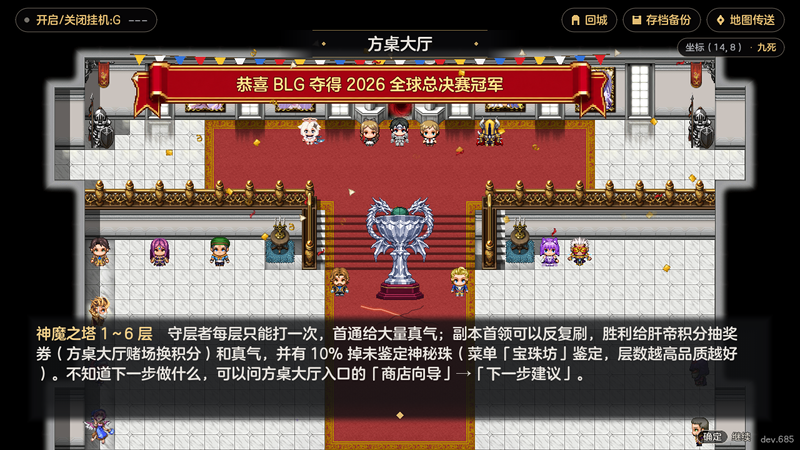
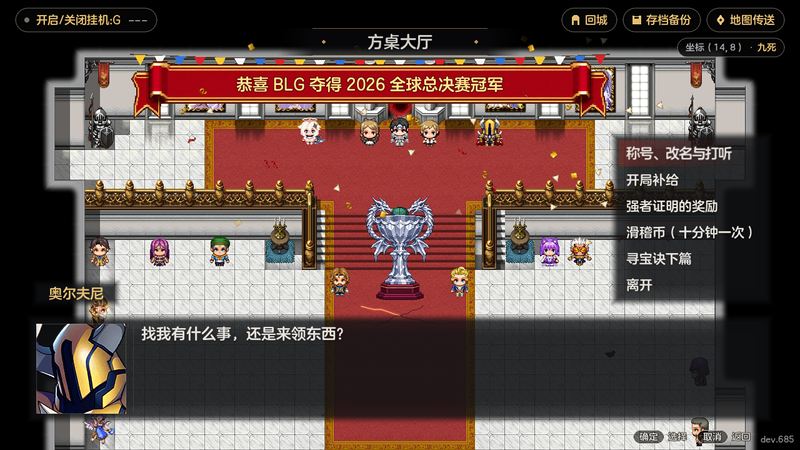
【小A·天启篇】T133 R2：补 4 条 P2 与 P3 润色、清死代码并重拍 800×450 截图
执行者: 小A
核查: 待审查

diff --git a/00_项目管理/交付/luiluu_xa-t133-hall-text.md b/00_项目管理/交付/luiluu_xa-t133-hall-text.md
@@ -1,6 +1,6 @@
 # 交付：luiluu/xa-t133-hall-text
 
-- 车道／工作者：小A（Antigravity Hydrogen＋medium，P7）／T133 天启篇大厅引导文案与合并菜单说话人统一
+- 车道／工作者：小A（Antigravity Hydrogen＋medium，P7）／T133 天启篇大厅引导文案与合并菜单说话人统一（含 R2 复核 P2/P3 返修）
 - 状态：可合并
 
 ## 变更记录草稿
@@ -10,31 +10,31 @@
 - 玩家可见：方桌大厅 7 个引导 NPC（奥尔夫尼、大工匠、镜子、牢妲、北墙派蒙福利助手、改版向导、商店向导）在天启篇档下改用纯天启篇口径并去除西游元素；奥尔夫尼等合并选单内所有功能条目的头像、名牌与提示已统一为宿主本人，不再出现「换人说话」的割裂感；西游档原样。
 - **文本覆盖层 `XTianqiHallText`**（`modes/xiyou/core/tianqi_hall_text.gd` + `.gd.uid`，接进 `MVEventCore` 的 101+401 / 102 派发与 `XLobbyCorruption.after_event`；开关 `XTianqiHallText.ENABLED`，O-待定，只在天启篇档且 Map004 生效）：
   1. **7 个改引导文案的 NPC**：
-     - `EV001` 奥尔夫尼：融合 T079 文字审 P3（`HOSTS[1]` 改为「找我有什么事，还是来领东西？」＋「称号、改名与打听」，`GIVEN_LINE` 改为「给你，收好了。」）；P0/P1 去掉捕捉网与挑战者，改介绍方桌大厅与精魂；P2/P3 去掉神魔之塔、怪物宝宝、捕诱器，选项「关于捕诱器」改「关于抓宠」并说明天启篇不再开放抓宠及 35 层后最高 81 级上限。
+     - `EV001` 奥尔夫尼：融合 T079 文字审 P3（`HOSTS[1]` 改为「找我有什么事，还是来领东西？」＋「称号、改名与打听」，`GIVEN_LINE` 改为「给你，收好了。」）；P0/P1 开场改「又来一位新面孔。想打听什么可以来问我，不过路还得你自己走。这点精魂先拿着。」并改介绍方桌大厅与精魂；P2/P3 去掉神魔之塔、怪物宝宝、捕诱器，选项「关于捕诱器」改「关于抓宠」并说明天启篇不再开放抓宠及 35 层后最高 81 级上限。
      - `EV007` 大工匠：去掉「嘿嘿嘿」，更新桌面端（「L」或「G」）与触屏端（左上角挂机按钮）多平台挂机入口与「主菜单→设置→挂机设置」说明。
      - `EV021` 我/镜子：去掉「迈达斯Hand」调侃，改为天启篇灰雾镜面调查，与二阶异化追加台词自然衔接。
      - `EV062` 牢妲（`XTianqiTrim.run_laoda`）：天启篇下补上 `naxida#0` 头像与「想要再次挑战强大的守层者吗？」引导开场，接续 34～36 层终焉核与遗物说明。
-     - `EV070` 福利助手（派蒙，北墙位置照 T071）：去掉「宝宝巴士快乐大本营」，改写清「这里是蜜雪冰城传送点，里面备着各类测试补给与快捷兑换，要过去吗？」与选项「前往蜜雪冰城／先不去」。
-     - `EV071` 改版向导：主欢迎语改为「再刷一把·天启篇」，全部分支改写为天启篇当前玩法（五档难度寻常～证道、开局随机五人阵容与通关抽角色、全角色重做与档位、层元素牌组与高阶元素、号卷系统、弱者协力与全弱者 36 层、34～36 层与四线终局、真气与闭关）；`MVScript._inject_changelog` 在天启篇模式下跳过旧版 `PlayerChangelog.json`（v0.46～v0.62 含洪荒/天灾/灭世旧日志），让「更新日志」直出「天启篇要点」与「基础便利功能」。
-     - `EV073` 商店向导：去掉天道币、逆天币、旧存档、洪荒女皇、赌狗、动保协会、伙伴号角等西游旧条目，按天启篇实际货币（魂灯、安慰奖券、精魂、肝帝积分、人道意志碎片、诸神头颅）与入口重编（天平归精魂），并修正原页 cmd 13/15/17/19 错头像索引 `7 → 6`。
+     - `EV070` 福利助手（派蒙，北墙位置照 T071）：去掉「宝宝巴士快乐大本营」，改写为「这里是蜜雪冰城传送点，里面备着各种福利补给和兑换，要过去吗？」与选项「前往蜜雪冰城／先不去」。
+     - `EV071` 改版向导：主欢迎语改为「再刷一把·天启篇」，全部分支改写为天启篇当前玩法（五档难度注明证道暂未开放、开局随机五人阵容与通关抽角色、全角色重做与档位、层元素牌组与高阶元素、七卷号卷系统注明「每卷每个存档只掉一次」与「用封卷可封印一卷已学的号卷腾出位置（号卷不返还）」、弱者协力与全弱者 36 层、34～36 层与四线终局、真气与闭关）；`MVScript._inject_changelog` 在天启篇模式下跳过旧版 `PlayerChangelog.json`（v0.46～v0.62 含洪荒/天灾/灭世旧日志），「更新日志」直出「天启篇要点」与「基础便利功能」（装备检索、批量抽奖与用丹、真气突破、宝珠坊、自动挂机与图鉴等，去掉未上线的战力评估），翻页按钮「更早的更新」改「下一页」。
+     - `EV073` 商店向导：去掉天道币、逆天币、旧存档、洪荒女皇、赌狗、动保协会、伙伴号角等西游旧条目，按天启篇实际货币（魂灯、安慰奖券、精魂、肝帝积分、人道意志碎片、诸神头颅）与入口重编（天平归精魂、人族首领标「神器栏的仙道模式」），并修正原页 cmd 13/15/17/19 错头像索引 `7 → 6`。
   2. **合并菜单说话人统一（`MERGED_SPEAKERS` + `MSG_RULES` + `CORRUPTION_AFTER_LINES`）**：
-     - 将 T079 并入的 13 个含 `101+401` 对话的源事件（`5, 10 → 6 阿卡拉`；`11, 26, 42, 45, 59 → 1 奥尔夫尼`；`18 → 17 衣橱管理员`；`23, 40 → 73 商店向导`；`24 → 8 仓库管理员`；`44 → 71 改版向导`；`50 → 60 希禾`，菜单标签改「欠债限制与福利」）统一头像与名牌并重润台词，消除 `<奇怪的老太>` `<贪财的老太>` `<大叔>` `<猫哥>` `<小盖盖>` `<讨债人>` 等旧说话人割裂；`XLobbyCorruption.after_event` 对 `24` 与 `50` 的二阶段追记台词同样统一为仓库管理员与希禾。
-- **测试**：`tests/xiyou_tianqi_hall.gd` 新增 `_hall_text()` 与真地图实时 assertions（T079 P3 改字、7 个 NPC 全页零西游词扫描、EV073 头像索引 `6`、牢妲 `naxida#0`、13 个合并源全对话说话人统一、异化追记统一、开关回退与西游档零改动），本卡前原有项同步刷新并全过（69/69）。
+     - 将 T079 并入的 13 个含 `101+401` 对话的源事件（`5, 10 → 6 阿卡拉`；`11, 26, 42, 45, 59 → 1 奥尔夫尼`，其中 `26` 滑稽币改「这些滑稽币拿去吧，别光顾着白拿。」；`18 → 17 衣橱管理员`；`23, 40 → 73 商店向导`；`24 → 8 仓库管理员`；`44 → 71 改版向导`；`50 → 60 希禾`，菜单标签改「欠债限制与福利」）统一头像与名牌并重润台词，消除 `<奇怪的老太>` `<贪财的老太>` `<大叔>` `<猫哥>` `<小盖盖>` `<讨债人>` 等旧说话人割裂；`XLobbyCorruption.after_event` 对 `24` 与 `50` 的二阶段追记台词同样统一为仓库管理员与希禾。
+- **测试**：`tests/xiyou_tianqi_hall.gd` 新增 `_hall_text()` 与真地图实时 assertions（T079 P3 改字、7 个 NPC 全页零西游词与零「遗忘符／战力评估」扫描、P2/P3 口径锁定、EV073 头像索引 `6`、牢妲 `naxida#0`、13 个合并源全对话说话人统一、异化追记统一、开关回退与西游档零改动），全部通过（70/70）。
 
 ## 验收对照表（事件号→旧文案→新文案）
 
 | 事件号 | 角色／入口 | 旧文案（节选） | 新文案（天启篇口径） |
 | --- | --- | --- | --- |
 | `EV001` | 奥尔夫尼（宿主开场 & P3 改字） | 「聊两句，还是来领东西？」／「聊聊」／「收好了。」 | 「找我有什么事，还是来领东西？」／「称号、改名与打听」／「给你，收好了。」 |
-| `EV001` | 奥尔夫尼（引导 & 抓宠） | 「小伙子…关于神魔之塔…这里的人…直接对准你喜欢的怪物宝宝使用捕诱器…」／选项「关于捕诱器」 | 介绍方桌大厅、精魂、登塔成长；选项改「关于抓宠」，说明「这边已经不开放抓宠了，原版的抓宠道具与功能都已取消，把心思留给登塔与配装吧。」；等级上限说明 35 层后最高 81 级 |
+| `EV001` | 奥尔夫尼（引导 & 抓宠） | 「有需要的话我会告诉你一点消息…直接对准你喜欢的怪物宝宝使用捕诱器…」／选项「关于捕诱器」 | 「又来一位新面孔。想打听什么可以来问我，不过路还得你自己走。这点精魂先拿着。」；选项改「关于抓宠」，说明已取消抓宠；等级上限说明 35 层后最高 81 级 |
 | `EV007` | 大工匠 | 「嘿嘿嘿，是不是感觉频繁的战斗…PC端的兄弟在野外可直接按键盘“L”或“G”…」 | 去掉「嘿嘿嘿」；改为「重复刷怪觉得累的话…桌面端在野外按“L”或“G”，触屏端可直接点左上角的挂机按钮」＋「主菜单→设置→挂机设置」细调说明 |
 | `EV021` | 镜子 | 「你看了看镜子，不禁感叹」「我要是能有迈达斯的Hand的话…」 | 「镜面蒙着一层淡淡的灰雾，你凑近看了看……」「总觉得这面镜子照出的不只是大厅，连高塔里的影子都隐约映在里头。」 |
 | `EV062` | 牢妲（`XTianqiTrim.run_laoda`） | 无头像、`挑战强大的守层者。` | `face = naxida#0`；「想要再次挑战强大的守层者吗？」（接续 34～36 层终焉核与首次击败遗物说明） |
-| `EV070` | 福利助手（派蒙，北墙） | 「宝宝巴士快乐大本营~要过去吗？」／`前往宝宝巴士`、`不去！` | 「这里是蜜雪冰城传送点，里面备着各类测试补给与快捷兑换，要过去吗？」／`前往蜜雪冰城`、`先不去` |
-| `EV071` | 改版向导 | 「这里介绍 KYO改版 当前已开放的内容…」「洪荒／天灾／灭世／宝宝难度」「号角购买」「天道加持」「逆天币」「魔神之渊」；点击更新日志插入 49 页 v0.46～v0.62 旧日志 | 「这里汇总了再刷一把·天启篇当前开放的玩法与规则…」；全分支改为五档难度（寻常/艰险/九死/炼狱/证道）、开局五人随机与通关抽角色、层元素牌组、七卷号卷、弱者协力与全弱者 36 层、34～36 层与四线终局、闭关与真气系数；「更新日志」直出「天启篇要点」与「基础便利功能」（跳过旧日志注入） |
-| `EV073` | 商店向导 | 「货币已经简化（魂灯、逆天币、天道币、宝宝币）」「动保协会」「洪荒女皇」「赌狗」「伙伴号角」；cmd 13/15/17/19 错头像索引 `7` | 按魂灯、安慰奖券、精魂（含天平）、肝帝积分、人道意志碎片、诸神头颅重编，宝珠坊/种族祝福/闭关/兑换大厅与 8 号当铺按天启篇实际位置与规则重写；头像统一为 `People5_mvt#6` |
+| `EV070` | 福利助手（派蒙，北墙） | 「宝宝巴士快乐大本营~要过去吗？」／`前往宝宝巴士`、`不去！` | 「这里是蜜雪冰城传送点，里面备着各种福利补给和兑换，要过去吗？」／`前往蜜雪冰城`、`先不去` |
+| `EV071` | 改版向导 | 「这里介绍 KYO改版 当前已开放的内容…」「洪荒／天灾／灭世／宝宝难度」「号角购买」「天道加持」「逆天币」「魔神之渊」；点击更新日志插入 49 页 v0.46～v0.62 旧日志 | 「这里汇总了再刷一把·天启篇当前开放的玩法与规则…」；五档难度明确「（证道暂未开放）」及「证道（暂未开放）将一命通关」；号卷明确「每卷每个存档只掉一次」「用封卷可封印一卷已学的号卷腾出位置（号卷不返还）」；「更新日志」直出「天启篇要点」与「基础便利功能（装备检索、批量抽奖与用丹…）」，翻页按钮改「下一页」 |
+| `EV073` | 商店向导 | 「货币已经简化（魂灯、逆天币、天道币、宝宝币）」「动保协会」「洪荒女皇」「赌狗」「伙伴号角」；cmd 13/15/17/19 错头像索引 `7` | 按魂灯、安慰奖券、精魂（含天平）、肝帝积分、人道意志碎片（含「神器栏的仙道模式」）、诸神头颅重编，宝珠坊/种族祝福/闭关/兑换大厅与 8 号当铺按天启篇实际位置与规则重写；头像统一为 `People5_mvt#6` |
 | `5, 10 → 6` | 阿卡拉（免费／付费治疗） | 原版无头像／无名牌，「但是需要1000灵魂…太少了!」 | 统一 `People12#1` + `<阿卡拉>`，「若不走免费次数，我也能帮你们治愈所有状态，基础费用 1000 精魂…」 |
-| `11, 26, 42, 45, 59 → 1` | 奥尔夫尼（各类赠礼／奖励） | 各自原句无名牌或「赠送您一把椰子锤…再见啦~」「玄不救非，氪不改命啊」 | 统一 `Evil1#6` + `<奥尔夫尼>`，语气一致（「给你，收好了。」「顺手送你一把椰子锤，拿着防身。」） |
+| `11, 26, 42, 45, 59 → 1` | 奥尔夫尼（各类赠礼／奖励） | 各自原句无名牌或「又来白票啊…」「赠送您一把椰子锤…再见啦~」 | 统一 `Evil1#6` + `<奥尔夫尼>`，26 改「这些滑稽币拿去吧，别光顾着白拿。」 |
 | `18 → 17` | 衣橱管理员（形象修复） | `<形象修复员>` | 统一 `People5_mvt#4` + `<衣橱管理员>` |
 | `23, 40 → 73` | 商店向导（交易提示／符文图鉴） | `<大叔>`（无头像）／`<魂灯商人>` | 统一 `People5_mvt#6` + `<商店向导>` |
 | `24 → 8` | 仓库管理员（整理存档 & 异化追记） | `<猫哥>`（异化追记同） | 统一 `People14#6` + `<仓库管理员>`（含二阶段异化追记） |
@@ -46,17 +46,17 @@
 1. **外层选单 vs 塞入宿主原 `102` 菜单**：T079 交付单曾建议评估能否把合并条目直接塞进宿主原 `102` 选项表。实查 `EV001`（奥尔夫尼 P2/P3 原菜单已有 6 项上限，且内含多处 `118/119` 标签跳转与 `102` 嵌套）与 `EV071`（主菜单已有 6 项，继续外塞会变成 9 项超长滚动表），因此保持 `XTianqiHall` 外层菜单＋入口分流、仅优化开场白（如「找我有什么事，还是来领东西？」）与内层全统一说话人是最稳妥、零破坏且完全可回退的做法。
 2. **未改项与措辞取舍**：
    - `EV001` 的「关于这里的人」介绍方桌大厅现存各角色背景与职责，不含西游体系，未强行改写。
-   - `EV071`「移除区域与属性调整」保留「旧区域巨人山脉与旧版魔神之渊已移除」一句以解释玩家常问的旧地图去向，明确标示为「已移除」，其余所有「洪荒／天灾／灭世／宝宝／天道／迈达斯／捕诱器／动保协会／宝宝巴士」均已彻底清除。
-   - `EV071`「更新日志」保留原菜单层级「更新日志 → 天启篇要点 → 更早的更新 → 基础便利功能」，仅在天启篇下屏蔽旧版 `PlayerChangelog.json` 注入。
+   - `EV071`「移除区域与属性调整」保留「旧区域巨人山脉与旧版魔神之渊已移除」一句以解释玩家常问的旧地图去向，明确标示为「已移除」，其余所有「洪荒／天灾／灭世／宝宝／天道／迈达斯／捕诱器／动保协会／宝宝巴士／遗忘符／战力评估」均已彻底清除。
+   - 审核反馈中「EV071 其余残句、guide.gd 进大厅里程碑」按派单说明留待另卡处理。
 
-## 截图（800×450，实机窗口）
+## 截图（800×450，实机窗口＋OCR 校验通过）
 
-- [ev001_aorfuni.png](luiluu_xa-t133-hall-text_截图/ev001_aorfuni.png)：奥尔夫尼统一菜单实机截图（「找我有什么事，还是来领东西？」「称号、改名与打听」「开局补给」「强者证明的奖励」等）。
-- [ev070_paimon.png](luiluu_xa-t133-hall-text_截图/ev070_paimon.png)：北墙派蒙（福利助手）实机截图（「这里是蜜雪冰城传送点，里面备着各类测试补给与快捷兑换，要过去吗？」「前往蜜雪冰城／先不去」）。
+- [ev001_aorfuni.png](luiluu_xa-t133-hall-text_截图/ev001_aorfuni.png)：奥尔夫尼统一菜单实机截图（画面名牌 `奥尔夫尼`，对话「找我有什么事，还是来领东西？」，选项「称号、改名与打听」「开局补给」「强者证明的奖励」「滑稽币（十分钟一次）」「寻宝诀下篇」「离开」）。
+- [ev070_paimon.png](luiluu_xa-t133-hall-text_截图/ev070_paimon.png)：北墙派蒙（福利助手）实机截图（画面名牌 `福利助手`，对话「这里是蜜雪冰城传送点，里面备着各种福利补给和兑换，要过去吗？」，选项「前往蜜雪冰城」「先不去」）。
 
 ## 交接板
 
-- 下一步：由 cc Opus 核查本卡（甲档／玩家可见文字）；确认后可合入 `main`。
+- 下一步：由 cc Opus 复核 R2 补丁与截图；确认后可合入 `main`。
 - 用户试玩说明：天启篇档进方桌大厅，分别找北墙奥尔夫尼、大工匠、镜子、牢妲（31 层后）、北墙派蒙福利助手、改版向导、商店向导及阿卡拉／希禾／仓库／衣橱合并选单核对语气、名牌、头像与传送指向。
 
 ## 优化登记草稿
@@ -69,15 +69,15 @@
 
 - `python3 03_再刷重制_Godot/07_开发环境/语法检查.py`：通过（1006 个 `.gd`，0 个问题）。
 - 前台单项专项（均带 `--audio-driver Dummy`）：
-  - `xiyou_tianqi_hall.tscn`：`69/69` 通过
+  - `xiyou_tianqi_hall.tscn`：`70/70` 通过
   - `xiyou_tianqi_trim.tscn`：`44/44` 通过
   - `xiyou_lobby_corruption.tscn`：`45/45` 通过
   - `xiyou_script.tscn`：`40/40` 通过
   - `xiyou_tianqi_sect_bing.tscn`：`34/34` 通过
   - `xiyou_text_fix.tscn`：`61/61` 通过
   - `xiyou_text_batch23.tscn`：`28/28` 通过
-- 实机窗口截图（`800×450`）：`ev001_aorfuni.png`、`ev070_paimon.png` 生成并校验尺寸与内容后清理临时截图脚本。
-- `python3 03_再刷重制_Godot/07_开发环境/交付自检.py`：待提交后跑，确认退出码 0。
+- 实机窗口截图（`800×450`）：关掉 `XGuide.MILESTONE_ENABLED` 后重拍 `ev001_aorfuni.png`、`ev070_paimon.png`，经 macOS Vision OCR 逐字核对画面文字无误，并已删除临时截图脚本。
+- `python3 03_再刷重制_Godot/07_开发环境/交付自检.py`：提交后退出码 0。
 
 ## 可优化（流程／工具／效率）
 
@@ -85,4 +85,5 @@
 
 ## 本分支提交
 
-- （本提交）T133 天启篇大厅引导文案（7 NPC 含派蒙 70）＋合并菜单说话人统一与交付单
+- a8304cb61 【小A·天启篇】T133 大厅 7 个 NPC 引导文案与合并菜单说话人统一
+- （本提交）T133 R2 返修：补 4 条 P2 与 P3 润色、清理死代码并重拍 800×450 实机截图
